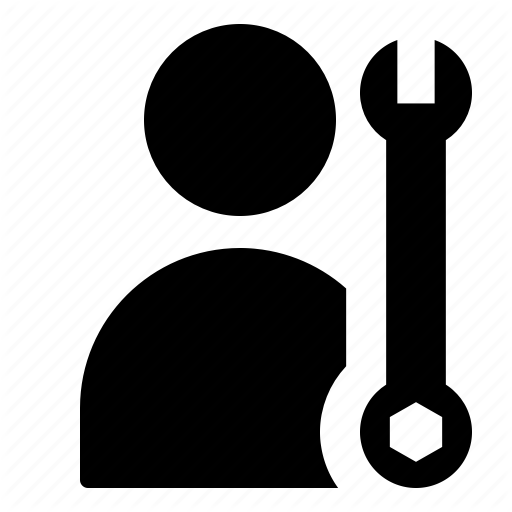
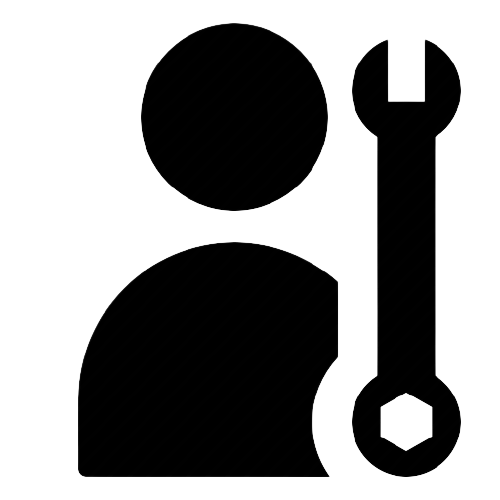
ATUALIZAÇÃO TELA PRINCIPAL

diff --git a/index.php b/index.php
@@ -68,7 +68,7 @@
     </div>
     <div class="imagem-veiculos col-lg-4 ">
         <figure class="figure">
-        <a href="telas/veiculo.php"><img src="icones/drawing4-512.png" class="figure-img img-fluid rounded" alt="Ícone veículo" width=250 height=250></a>
+        <a href="telas/veiculo.php"><img src="icones/veiculo.png" class="figure-img img-fluid rounded" alt="Ícone veículo" width=250 height=250></a>
         <figcaption class="figure-caption">GERENCIAMENTO DE VEICULOS</figcaption>
         </figure>
     </div>
